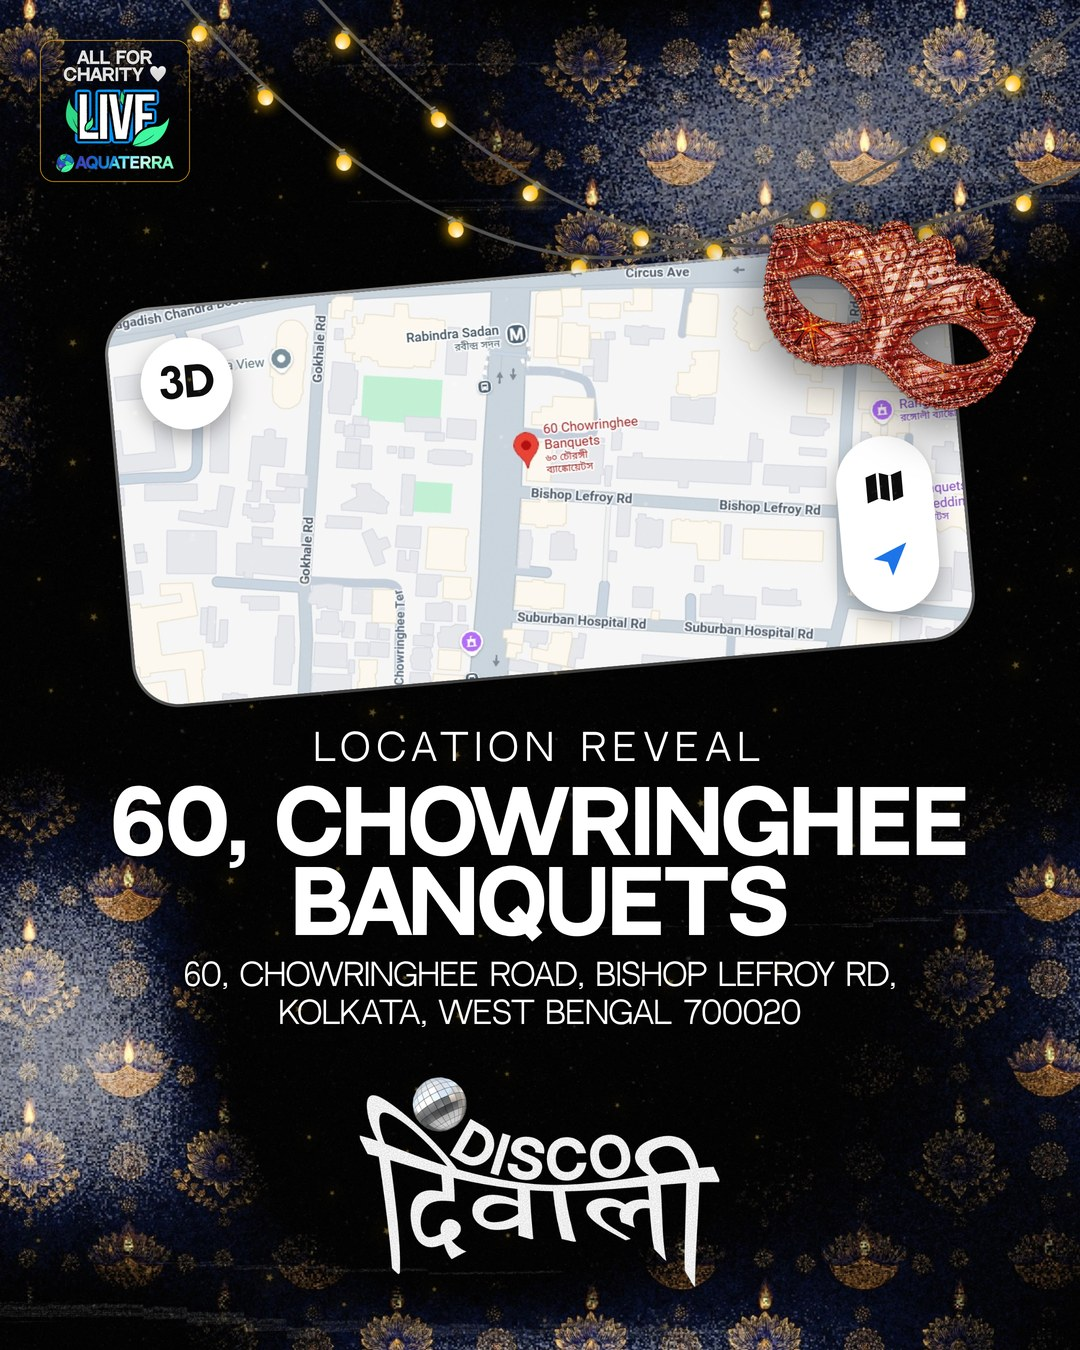
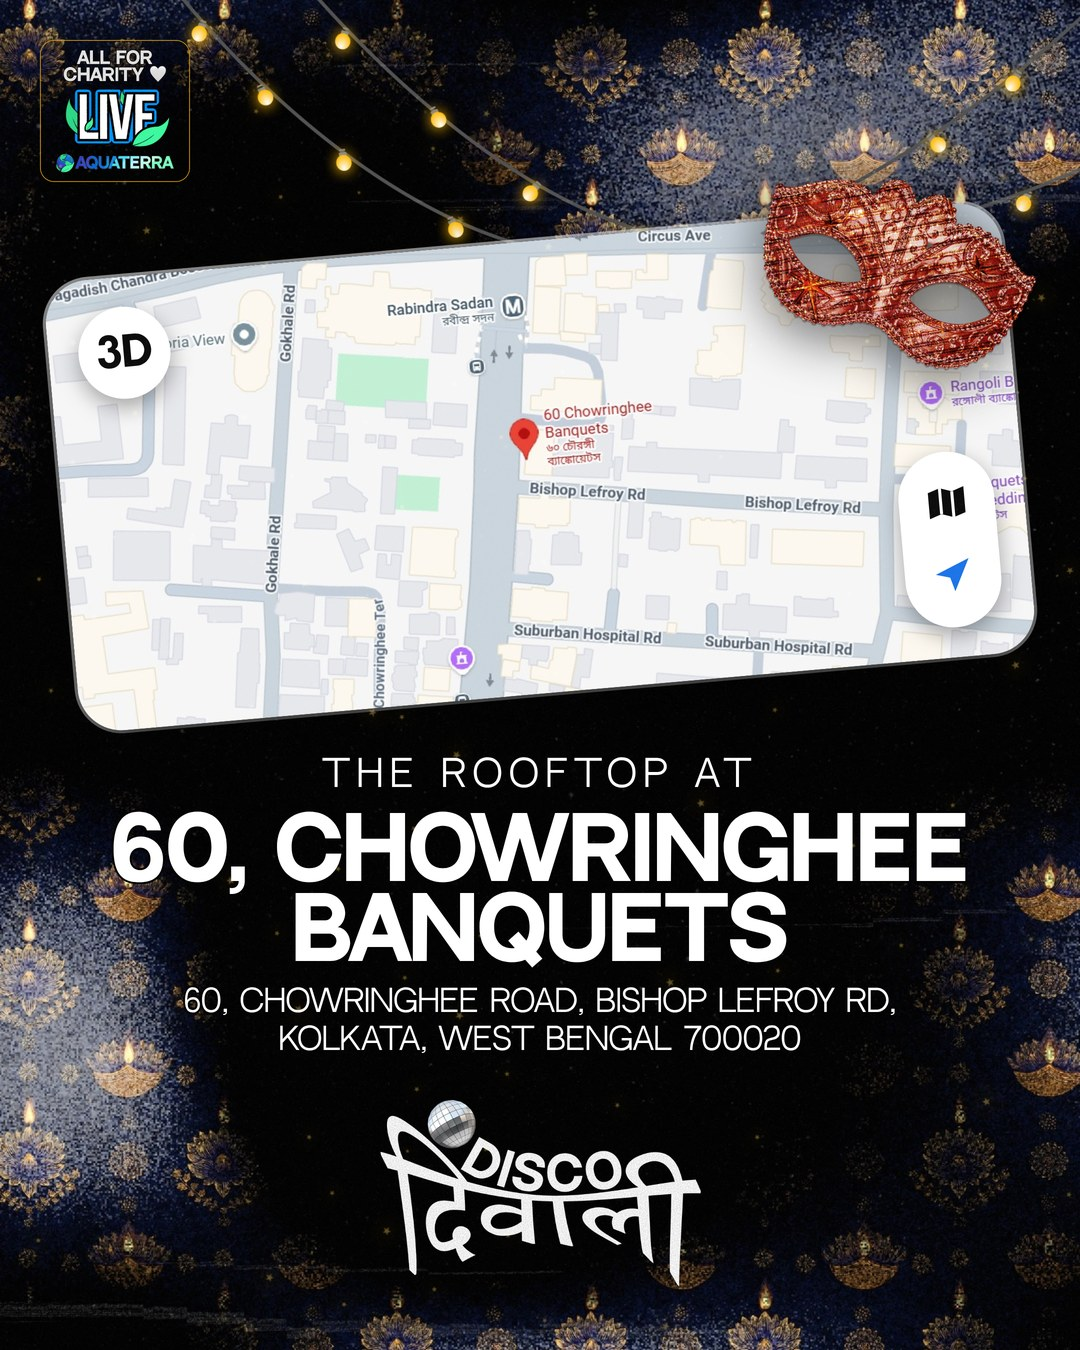
Disco Diwali location reveal: drop the label, bigger map card, THE ROOFTOP AT line
Claude-Session: https://claude.ai/code/session_01SvqxkoTEENgXPyjFifmnqB

Changed region(s): [[0.0306, 0.1244, 0.9778, 0.9644]]

diff --git a/scratchpad/dd_location_reveal.py b/scratchpad/dd_location_reveal.py
@@ -3,9 +3,9 @@ with round white map buttons and a Memoji pin bubble.
 
 Composition, back to front: black ground, the approved navy diya plate with string lights, a map card (the user's own map screenshot, rounded, tilted
 -5 degrees, hard shadow and hairline edge) carrying a "3D" button and a compass pill like the inspo, the copper mask lying across its top-right corner, the LIVE
-badge top left, then LOCATION REVEAL, the venue and its address, and the DISCO DIWALI lockup (with its ball) as a small footer mark. No pill and no edition line (user).
+badge top left, then THE ROOFTOP AT, the venue and its address, and the DISCO DIWALI lockup (with its ball) as a small footer mark. No pill and no edition line (user).
 
-Facts (all supplied by the user, 2026-10-19): venue "60, Chowringhee Banquets"; address "60, Chowringhee Road, Bishop Lefroy Rd, Kolkata, West Bengal 700020".
+Facts (all supplied by the user, 2026-10-19): the event is on a ROOFTOP; venue "60, Chowringhee Banquets"; address "60, Chowringhee Road, Bishop Lefroy Rd, Kolkata, West Bengal 700020".
 NO date or time (user choice). No price or lineup. The map is the user's real screenshot, never redrawn, so no street label is mine.
 Adaptations: the inspo's Memoji pin avatar is dropped (the red venue pin in the screenshot carries the pointing); the map buttons are drawn here with no Apple or Google marks; type is NeutralFace, white with a thin black border.
 Run: PYTHONIOENCODING=utf-8 python scratchpad/dd_location_reveal.py"""
@@ -61,8 +61,8 @@ def poster(H):
     """Top: the LIVE badge. Middle: the map card with the copper mask on its top-right corner, then the reveal copy. Footer: the DISCO DIWALI lockup
     (with its ball) as a small mark, like the reference chat slide. No pill and no edition line (user, 2026-10-19)."""
     story = H > 1350
-    card_w = 880 if story else 840
-    card_top = 500 if story else 240                          # top of the card's tilted bounding box
+    card_w = 960                                              # 960 wide: the card is the hero, its tilted box spans ~995px
+    card_top = 470 if story else 200                          # top of the card's tilted bounding box
     card_h = round(card_w * 508 / 1080)
     cy = card_top + (rot_box(0, 0, card_w, card_h, TILT)[3] + 1) // 2
     vsize = 90 if story else 84
@@ -81,14 +81,14 @@ def poster(H):
     def line(tag, txt, top, size, weight, h, extra=""):
         parts.append(f'<div data-tag="{tag}" style="position:absolute;left:0;width:{W}px;top:{top}px;text-align:center;font-family:var(--d);font-weight:{weight};font-size:{size}px;line-height:1;'
                      f'text-transform:uppercase;white-space:nowrap;{STROKE}{extra}z-index:20">{txt}</div>'); els.append((tag, 70, top, 940, h))
-    line("label", "Location reveal", y, 36, 400, 38, "letter-spacing:7px;")
+    line("label", "The rooftop at", y, 36, 400, 38, "letter-spacing:7px;")
     y += 52
     line("venue1", VENUE[0], y, vsize, 700, vsize); y += vsize - 4
     line("venue2", VENUE[1], y, vsize, 700, vsize); y += vsize + 14
     line("addr1", ADDR[0], y, 30, 400, 32); y += 38
     line("addr2", ADDR[1], y, 30, 400, 32)
     # footer mark: the lockup with its ball, centred, visible box 265..1982 x 320..1311 of the 2000x1382 asset
-    vw = 400 if story else 360
+    vw = 400 if story else 320
     t = vw / 1717; vh = round(991 * t); vx = (W - vw) // 2
     vy = (1420 if story else H - 64 - vh)
     vy = max(vy, y + 32 + 40)

diff --git a/brain/DISCO_DIWALI.md b/brain/DISCO_DIWALI.md
@@ -85,7 +85,7 @@ Four 4:5 slides from a second user inspo (dimmed full-bleed night photo, gold-bo
 Four 1080x1350 slides on the approved diya ground (user, 2026-10-14, "i want this blue effect": black, navy and gold lotus-diya corners fading to black, string lights; not the beam recipe), from a user inspo (a "Choose everything related to..." verification card over a party photo): 1 the COVER (title lockup, copper mask, LIVE badge, a full captcha-card hook: blue header VERIFY YOU'RE A DISCO DIWALI HUMAN, a checkbox with a spinner, a SWIPE button), 2 the card with nine real event photos, 3 the same card with all nine ticked and the button reading VERIFIED, 4 ALL FOR CHARITY with the edition line and the LINK IN BIO pill (no date or time anywhere in the carousel, user 2026-10-14). Adaptations: the card is a design device (no reCAPTCHA marks, real photos, our button); the inspo's "best parties in the city" became "Related to Disco Diwali" because the claim cannot be backed; the header keeps the inspo's blue as the recognisable mechanism. No price, venue or lineup. Photo consent caveat applies (nine event photos, several show apparent minors).
 
 ### Location reveal poster (2026-10-19) — `scratchpad/dd_location_reveal.py`, JPEGs in `sample_outputs/disco_diwali_location/`
-Feed 1080x1350 and story 1080x1920 from a user inspo (a tilted rounded map card lying on the ground with round map buttons and a pin avatar). The map is the USER'S OWN screenshot (`engine/assets/disco_diwali/map_60_chowringhee.jpg`), never redrawn, so no street label is ours; the "3D" and compass buttons are drawn here with no Apple or Google marks. Facts printed, all supplied by the user: venue "60, Chowringhee Banquets" and the address "60, Chowringhee Road, Bishop Lefroy Rd, Kolkata, West Bengal 700020". No date or time (user choice), no price, no lineup. Layout (user, 2026-10-19: no pill, lockup in the footer like the reference chat slide, mask back on the card, no edition line): LIVE badge top left, the map card with the copper mask lying across its top-right corner (the placement the user preferred over a top-right mask), the reveal copy (LOCATION REVEAL, venue, address), then the DISCO DIWALI lockup WITH its ball as a small footer mark. No LINK IN BIO pill and no MASQUERADE SANGEET EDITION line. The inspo's Memoji pin avatar is not used; the red venue pin in the screenshot carries the pointing. Lessons: size the feed stack from the room left (the first build ended at y=1432 on a 1350 canvas, caught by the gate); a headline at the story's full size sat 50px from the edge, so 90px. The "Turf XL, New Alipore" in the TerraThon scripts is where the ticket STALL is, not the event venue.
+Feed 1080x1350 and story 1080x1920 from a user inspo (a tilted rounded map card lying on the ground with round map buttons and a pin avatar). The map is the USER'S OWN screenshot (`engine/assets/disco_diwali/map_60_chowringhee.jpg`), never redrawn, so no street label is ours; the "3D" and compass buttons are drawn here with no Apple or Google marks. Facts printed, all supplied by the user: venue "60, Chowringhee Banquets" and the address "60, Chowringhee Road, Bishop Lefroy Rd, Kolkata, West Bengal 700020". No date or time (user choice), no price, no lineup. Layout (user, 2026-10-19: no pill, lockup in the footer like the reference chat slide, mask back on the card, no edition line): LIVE badge top left, the map card with the copper mask lying across its top-right corner (the placement the user preferred over a top-right mask), the reveal copy (THE ROOFTOP AT, venue, address; the event is on a rooftop, user 2026-10-19), then the DISCO DIWALI lockup WITH its ball as a small footer mark. No LINK IN BIO pill, no MASQUERADE SANGEET EDITION line, no LOCATION REVEAL label. The map card is 960px wide (a tilted box ~995px), the hero. The inspo's Memoji pin avatar is not used; the red venue pin in the screenshot carries the pointing. Lessons: size the feed stack from the room left (the first build ended at y=1432 on a 1350 canvas, caught by the gate); a headline at the story's full size sat 50px from the edge, so 90px. The "Turf XL, New Alipore" in the TerraThon scripts is where the ticket STALL is, not the event venue.
 
 ## 6. Conflicts with CLAUDE.md and how they were resolved (precedence ladder, sec 2)
 - Ground, palette and fonts differ from the AQ house style. Resolved as a format exception, like TerraThon. The format wins inside `discodiwali.py` only.
